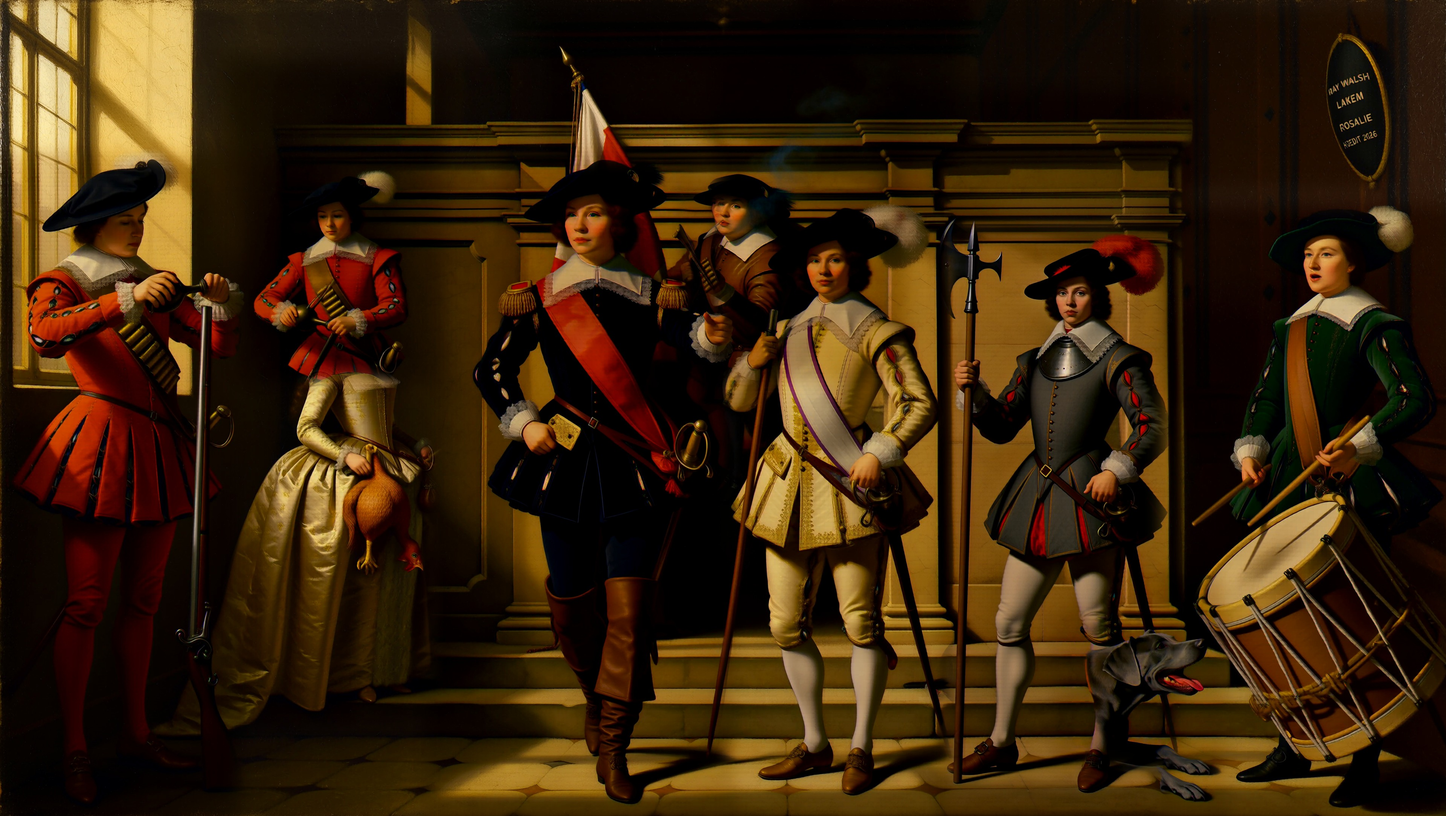
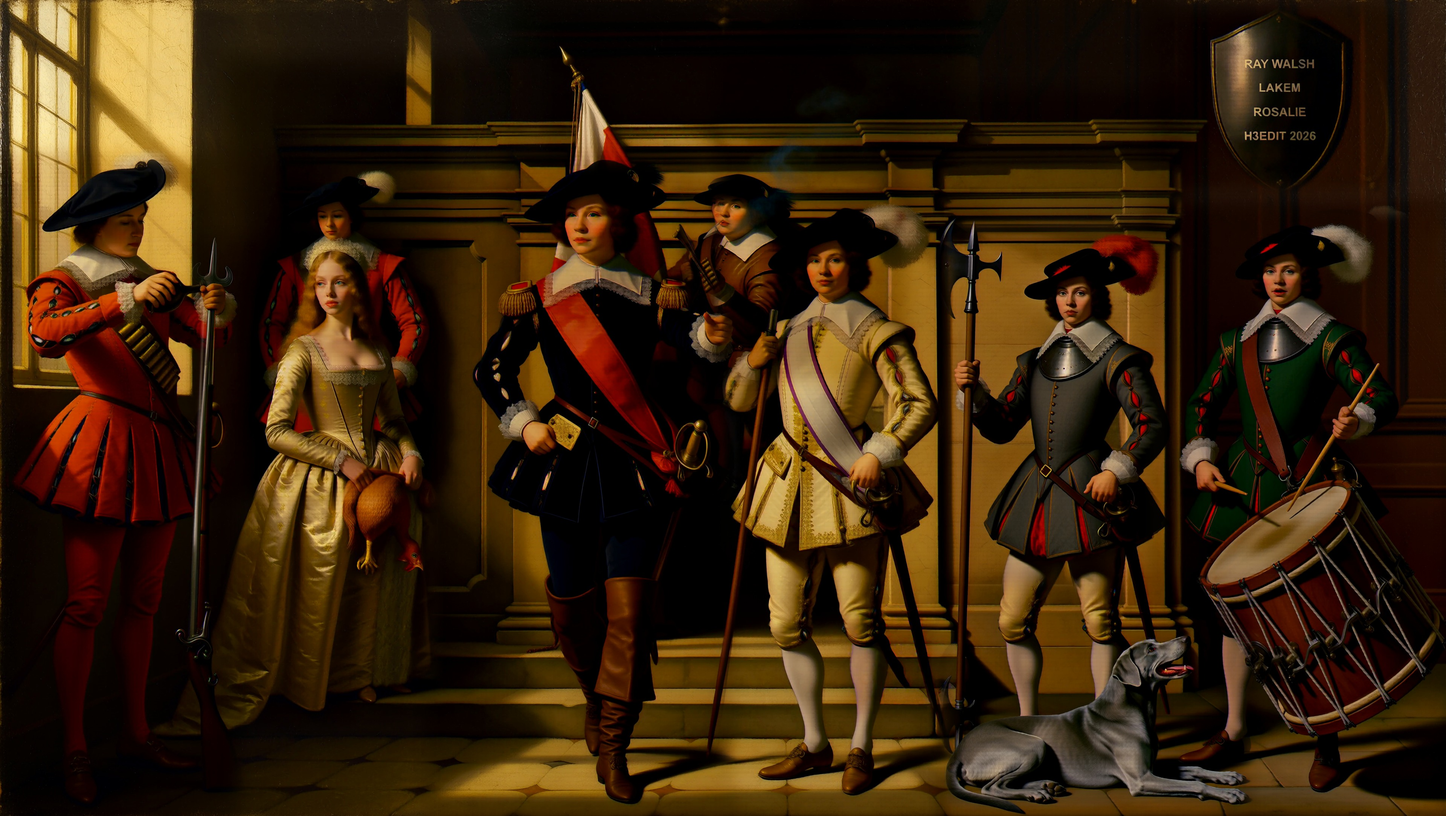
nachtwacht round 3: repair passes (girl head, drummer, whole dog, knee, shield)

Changed region(s): [[0.5625, 0.2472, 1.0, 1.0], [0.125, 0.2781, 0.3125, 0.6181], [0.8125, 0.0309, 0.9688, 0.2163]]

diff --git a/benchmark/nachtwacht/build.py b/benchmark/nachtwacht/build.py
@@ -56,6 +56,12 @@ PLAN = [
     ("boy",       "inpaint",   (0.17, 0.10, 0.30, 0.46),  ["palette.png"],      1.0,  "boy.txt"),
     ("captain_head","inpaint", (0.35, 0.20, 0.47, 0.40),  ["lakem_b.jpg"],      0.85, "captain_head.txt"),
     ("dog_head",  "inpaint",   (0.735, 0.76, 0.81, 0.93), ["palette.png"],      1.0,  "dog_head.txt"),   # the halberdier box clipped the dog
+    # --- round 3, local: repairs of what round 2 broke ---
+    ("girl_head", "inpaint",   (0.14, 0.30, 0.31, 0.60),  ["rosalie.png"],      1.0,  "girl_head.txt"),  # the boy box had replaced her head and bodice
+    ("drummer2",  "inpaint",   (0.80, 0.26, 1.00, 1.00),  ["speaker.jpg"],      1.0,  "drummer2.txt"),   # cropped by the right frame edge
+    ("dog_full",  "inpaint",   (0.66, 0.72, 0.86, 1.00),  ["palette.png"],      1.0,  "dog_full.txt"),   # hindquarters clipped; whole dog in one box
+    ("lieut_knee","inpaint",   (0.59, 0.75, 0.645, 0.865),["palette.png"],      1.0,  "lieut_knee.txt"), # scabbard tip painted as a blob at the knee
+    ("shield2",   "inpaint",   (0.80, 0.02, 0.96, 0.22),  ["shield_art.png"],   0.85, "shield.txt"),     # last line read H8EDIT; 0.85 + artwork ref = the correction recipe
 ]
 LOCAL_START = "halberdier"       # passes from here on were rendered locally in windows
 WINDOW_MP = 4.0

diff --git a/benchmark/nachtwacht/README.md b/benchmark/nachtwacht/README.md
@@ -2,7 +2,7 @@
 
 The stress test the plate benchmark could not be: an image no single prompt produces, on any
 tool. A 5440x3072 militia group portrait in the manner of the Night Watch, painted from a blank
-canvas by MiniMax H3 in 20 passes on one canvas. Every figure, prop and the lettered shield is its
+canvas by MiniMax H3 in 25 passes on one canvas. Every figure, prop and the lettered shield is its
 own `--inpaint` pass at full resolution; nothing outside a pass's box is ever regenerated.
 
 ![final](out/final_4k.jpg)
@@ -71,6 +71,27 @@ neighbour with it (the halberdier ate the dog's head; the gunner replaced the en
 on empty ground or repair afterwards. "A small boy" came out as another adult in a red coat: with
 no identity reference the model defaults to the figures already on the canvas. The local turbo lane
 leaves more chroma noise in the box than the pod's 20-step base lane.
+
+## Round 3: repairs, rendered locally
+
+Round 2 broke as much as it added. The "boy" box overlapped the girl's box and replaced her head and
+bodice with a red-coated youth; the halberdier box cut the dog off behind the hind legs; the drummer
+was cropped by the right frame edge; the lieutenant's scabbard tip had come out as a blob at his knee;
+the shield's last line read `H8EDIT`. Five more local passes (same M5 turbo lane, ~4 MP windows):
+
+| pass | box (px) | denoise | fixes | wall |
+|---|---|---|---|---|
+| girl_head | 912x912 | 1.0 | Rosalie's head and bodice back above the existing skirt; the youth now stands behind her | 682 s |
+| drummer2 | 1088x2272 | 1.0 | whole figure inside the frame, wall visible to his right | 422 s |
+| dog_full | 1088x864 | 1.0 | the whole dog in one box that includes the halberdier's shins | 382 s |
+| lieut_knee | 288x352 | 1.0 | knee band and hose, nothing hanging | 382 s |
+| shield2 | 864x608 | 0.85 | lettering corrected with the artwork as reference; the oval became a larger heraldic shield, so 0.85 did not pin the geometry here as it did on the plate | 342 s |
+
+The rule for box size, learned the hard way: a box must contain everything you are re-composing plus
+a strip of finished ground on every side. Too small and you clip a body or decapitate a neighbour;
+too big only costs you the neighbours inside it, which the model repaints in context (the dog box
+took the halberdier's shins with it and joined them cleanly). Repairs go bigger, not smaller, and
+back to front: the drummer was redone before the dog because the drummer's box covers the dog's head.
 
 ## What it proved, and what it did not
 

diff --git a/README.md b/README.md
@@ -121,7 +121,7 @@ Two rules from the [benchmark](benchmark/README.md#3-detail-pass---detail--works
 
 Six scripted stress tests, pinned seeds, shipped inputs: [`benchmark/`](benchmark/README.md). On a 5090 at 4 MP, **8 of 8 seeds render every line of a five-tier plate down to 23-px caps at ≥0.96 character accuracy**; lettering holds to ~17 px caps and starts inventing characters at 12 px. The one miss in 40 lines is a single digit swap (reroll). Also measured: what survives outside the edit (large structure yes, brick texture no), the neon sign's pavement reflection (ΔE 21, local) versus its glow on brick (barely measurable), and seven second-pass candidates against one wrong digit — tiling fails, `--inpaint` and a latent-upscale refine fix it.
 
-**Stress test:** a 16 MP group painting built from a blank canvas by H3 alone in 15 masked passes, every pass leaving the rest of the canvas at SSIM 1.000: [`benchmark/nachtwacht/`](benchmark/nachtwacht/README.md).
+**Stress test:** a 16 MP group painting built from a blank canvas by H3 alone in 25 masked passes (15 on a pod, 10 local repairs), every pass leaving the rest of the canvas at SSIM 1.000: [`benchmark/nachtwacht/`](benchmark/nachtwacht/README.md).
 
 ![nachtwacht](benchmark/nachtwacht/out/final_4k.jpg)
 
